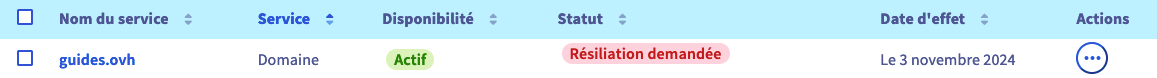
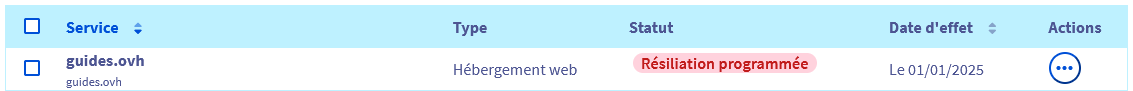
cancellation configure renew forward my services FR done

diff --git a/pages/account_and_service_management/managing_billing_payments_and_services/how_to_cancel_services/guide.fr-ca.md b/pages/account_and_service_management/managing_billing_payments_and_services/how_to_cancel_services/guide.fr-ca.md
@@ -64,7 +64,7 @@ Précisez les raisons de votre demande de résiliation puis cliquez sur `Valider
 > N'hésitez donc pas à nous en dire plus sur votre expérience personnelle avec OVHcloud via le formulaire proposé lors de la résiliation. Nous vous remercions par avance de votre contribution à l'amélioration de nos produits.
 >
 
-La résiliation de votre service aura lieu à la **date d'effet** indiquée dans le tableau « Gestion de mes offres et services ». Si vous ne voyez pas le statut « Résiliation demandée » apparaître, rafraîchissez la page.
+La résiliation de votre service aura lieu à la **date d'effet** indiquée dans le tableau « Gestion de mes offres et services ». Si vous ne voyez pas le statut « Résiliation programmée » apparaître, rafraîchissez la page.
 
 ![demande de résiliation](/pages/assets/screens/control_panel/product-selection/right-column/products-and-services/cancellation-request-fr.png){.thumbnail}
 
@@ -111,7 +111,7 @@ Cliquez ensuite sur le bouton `...`{.action} à droite du service faisant l'obje
 
 Enfin, cliquez sur `Confirmer l'annulation`{.action}.
 
-L'annulation de la résiliation est à effet immédiat. Rafraîchissez la page « Gestion de mes offres et services » si vous voyez toujours le statut « Résiliation demandée ».
+L'annulation de la résiliation est à effet immédiat. Rafraîchissez la page « Gestion de mes offres et services » si vous voyez toujours le statut « Résiliation programmée ».
 
 ## FAQ
 

diff --git a/pages/account_and_service_management/managing_billing_payments_and_services/how_to_cancel_services/guide.fr-fr.md b/pages/account_and_service_management/managing_billing_payments_and_services/how_to_cancel_services/guide.fr-fr.md
@@ -64,7 +64,7 @@ Précisez les raisons de votre demande de résiliation puis cliquez sur `Valider
 > N'hésitez donc pas à nous en dire plus sur votre expérience personnelle avec OVHcloud via le formulaire proposé lors de la résiliation. Nous vous remercions par avance de votre contribution à l'amélioration de nos produits.
 >
 
-La résiliation de votre service aura lieu à la **date d'effet** indiquée dans le tableau « Gestion de mes offres et services ». Si vous ne voyez pas le statut « Résiliation demandée » apparaître, rafraîchissez la page.
+La résiliation de votre service aura lieu à la **date d'effet** indiquée dans le tableau « Gestion de mes offres et services ». Si vous ne voyez pas le statut « Résiliation programmée » apparaître, rafraîchissez la page.
 
 ![demande de résiliation](/pages/assets/screens/control_panel/product-selection/right-column/products-and-services/cancellation-request-fr.png){.thumbnail}
 
@@ -160,7 +160,7 @@ Cliquez ensuite sur le bouton `...`{.action} à droite du service faisant l'obje
 
 Enfin, cliquez sur `Confirmer l'annulation`{.action}.
 
-L'annulation de la résiliation est à effet immédiat. Rafraîchissez la page « Gestion de mes offres et services » si vous voyez toujours le statut « Résiliation demandée ».
+L'annulation de la résiliation est à effet immédiat. Rafraîchissez la page « Gestion de mes offres et services » si vous voyez toujours le statut « Résiliation programmée ».
 
 ## FAQ
 
